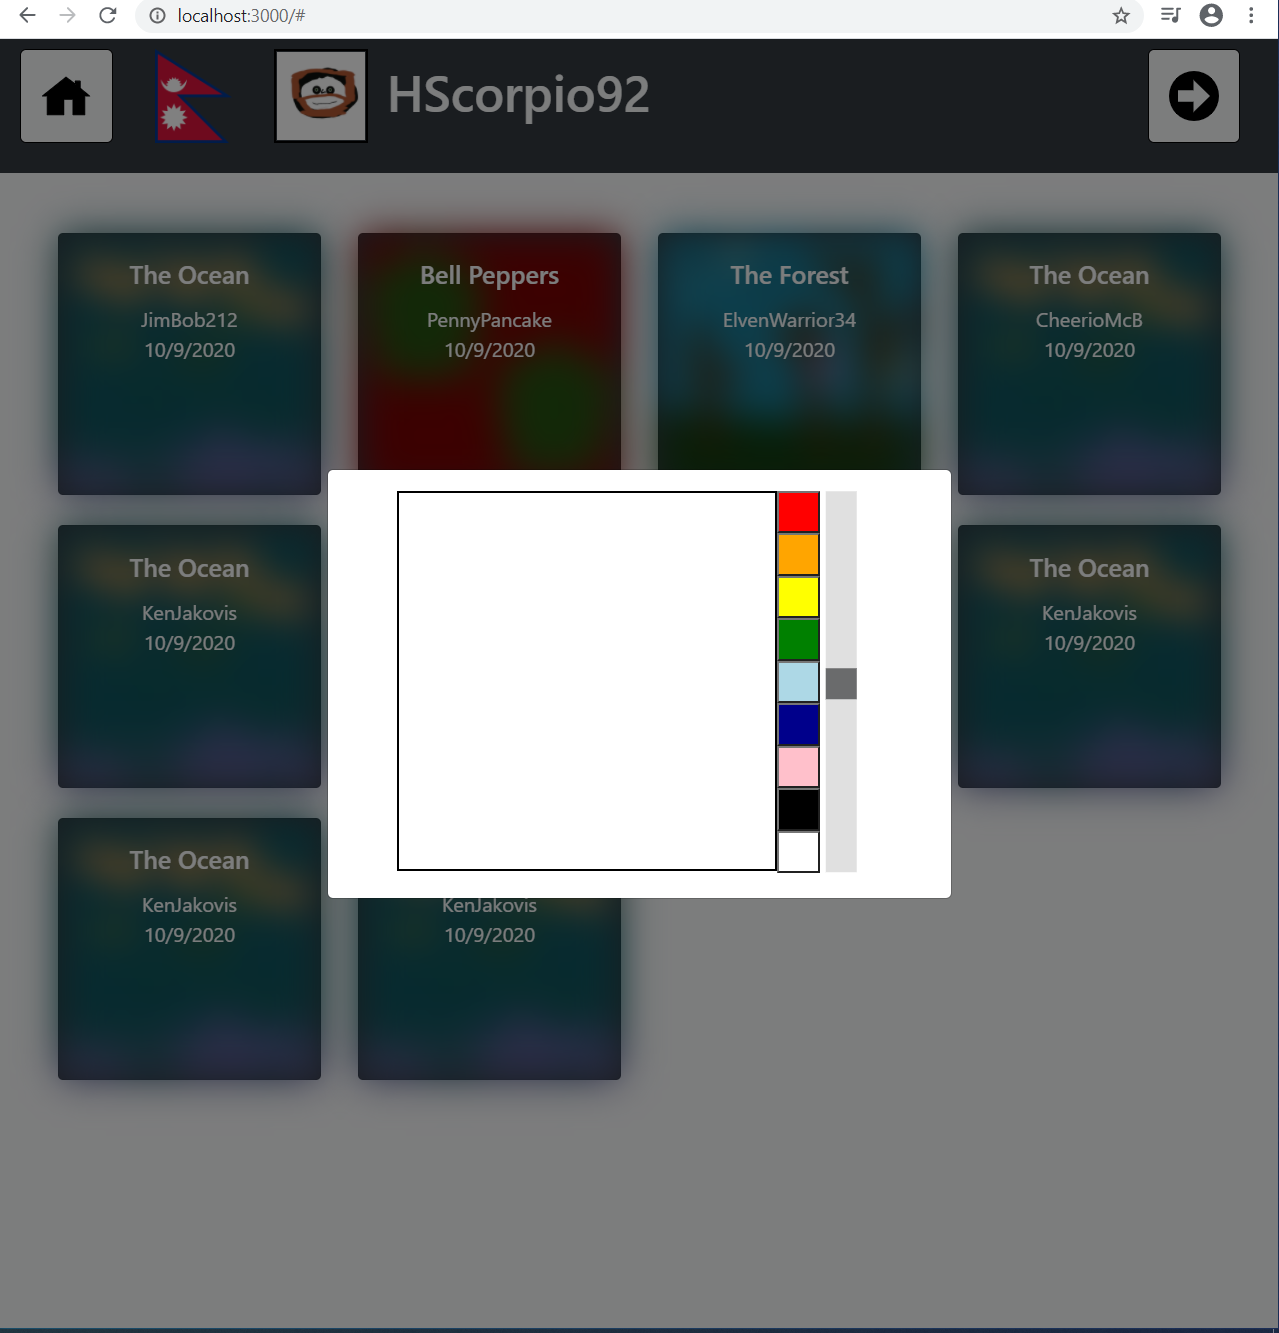
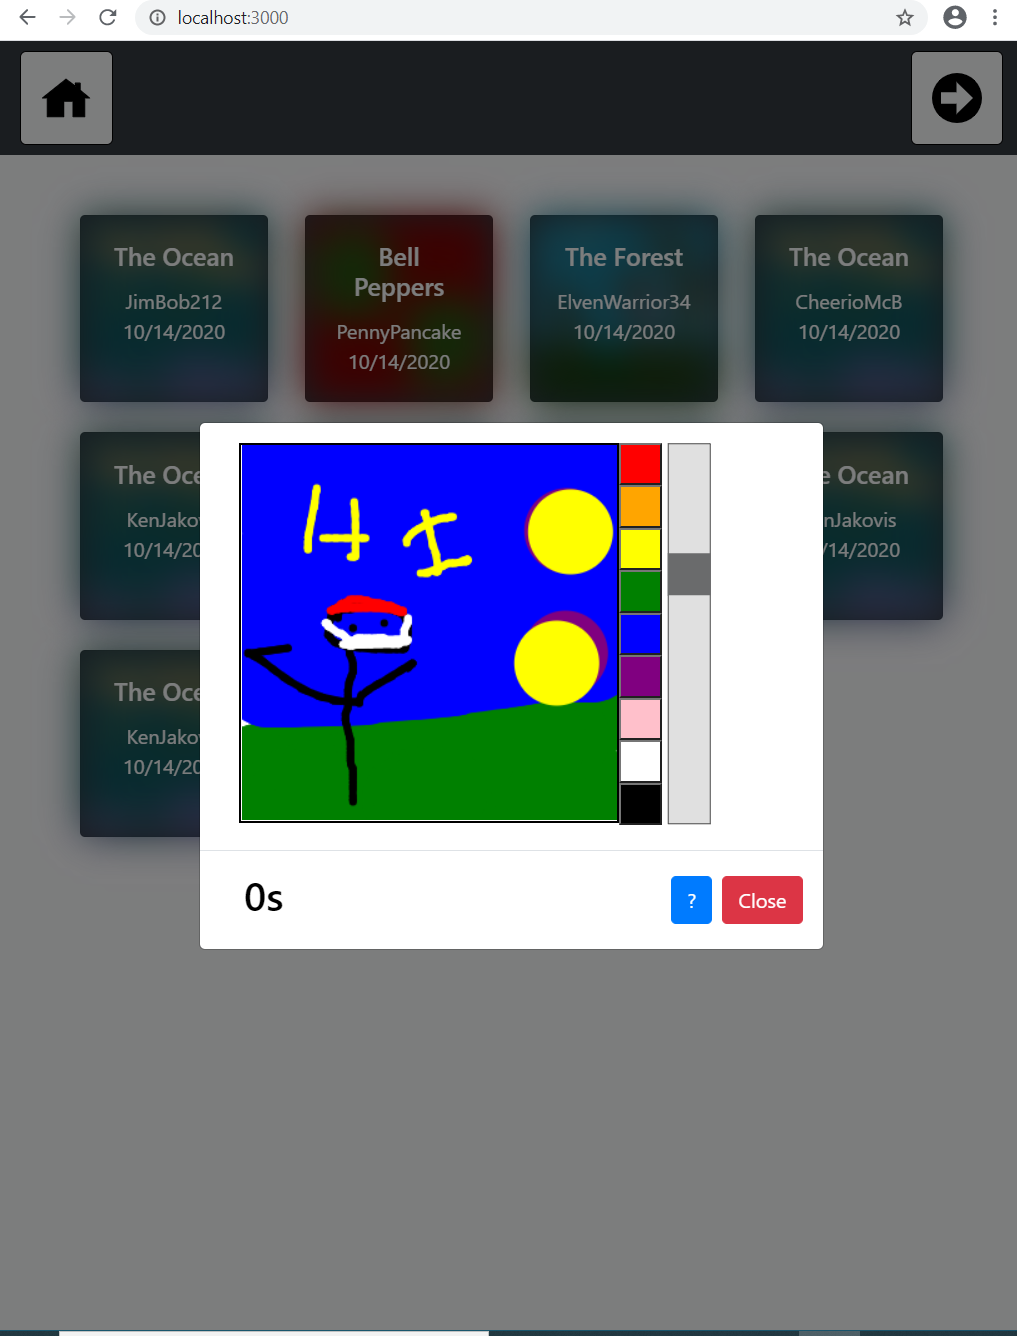
Drawing Updates

diff --git a/public/js/draw.js b/public/js/draw.js
@@ -6,12 +6,13 @@ console.log("hello world :o");
 // client-side js, loaded by index.html
 // run by the browser each time the page is loaded
 
-
+const height = 300
+const width = 300
 //canvas variables
 const canvas = document.getElementById('messageCanvas')
 const ctx = canvas.getContext('2d')
-ctx.canvas.clientWidth = 300
-ctx.canvas.clientHeight = 300
+ctx.canvas.clientWidth = width
+ctx.canvas.clientHeight = height
 ctx.lineWidth = 10
 ctx.imageSmoothingEnabled = true;
 const DEFAULTCOLOR = '#111111'
@@ -22,7 +23,7 @@ let pCoords2
 
 //timer variables
 let timerStarted = false
-let drawingTimeLimit = 10
+let drawingTimeLimit = 30
 let drawingTimeout
 
 
@@ -63,6 +64,7 @@ canvas.addEventListener('mouseup', (event => {
     ctx.beginPath()
     stop = true;
 }))
+
 
 function trueCoordinates(event) {
     let rect = canvas.getBoundingClientRect()
@@ -122,6 +124,9 @@ function timer() {
 
         //reset timer flag
         timerStarted = false
+
+        //stop drawing
+        stop = true;
 
         //enable the close button
         document.querySelector('#closeDrawingWindow').disabled = false
